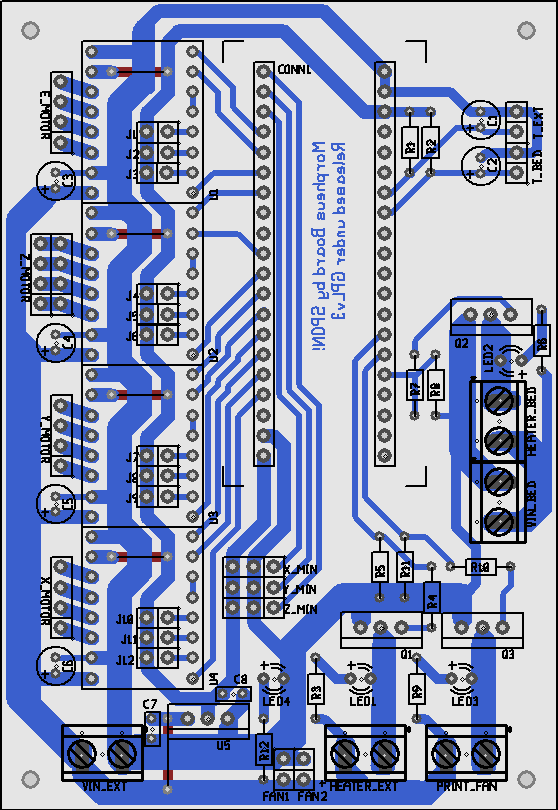
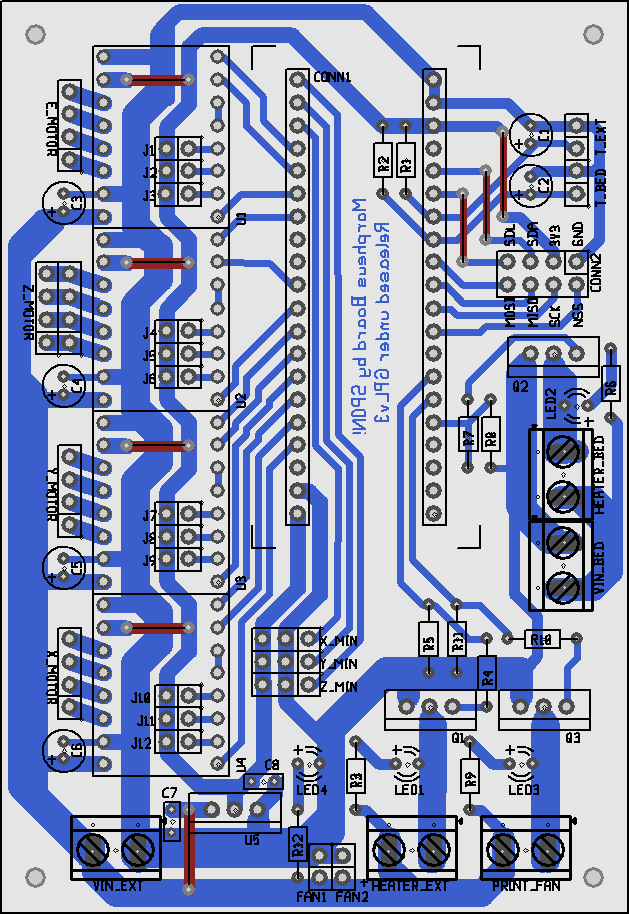
Added I2C and SPI Header
Added connector for external addons, which can use SPI and second I2C bus. Also updated readme file.

diff --git a/README.md b/README.md
@@ -1,20 +1,22 @@
-# Morpheus-STM32
+# Morpheus-STM32 (work in progress)
 A cheap 3D printer controller board for use with a "blue pill" STM32F1 generic board. Based on http://reprap.org/wiki/SinapTec
-(work in progress)
 
 It's design goals are:
 
  - Follow the [KISS Principle](https://en.wikipedia.org/wiki/KISS_principle)
  - Low cost
- - Single sided copper board
+ - Single layer copper board
  - DIY-able (easy to make via toner transfer)
  - Only through-hole components
- - Only the very basic a printer needs
+ - The very basic a printer needs
  - Keep bed circuit separated/optional (if you are making a PLA only printer, you don't need to populate the bed circuit zone)
 
 Features:
 
  - 4 Pololu-like steppers (X, Y, Z, E0)
- - 3 mosfets (E0 heater, fan and bed heater)
+ - 3 mosfets (E0 heater, print cooling fan and bed heater)
  - 3 MIN endstops (X, Y, Z)
- - 2 thermistors (E0 and bed)
+ - 2 thermistors (for E0 and bed)
+ - 2 12V fan connectors
+ - I2C and SPI header
+ 
